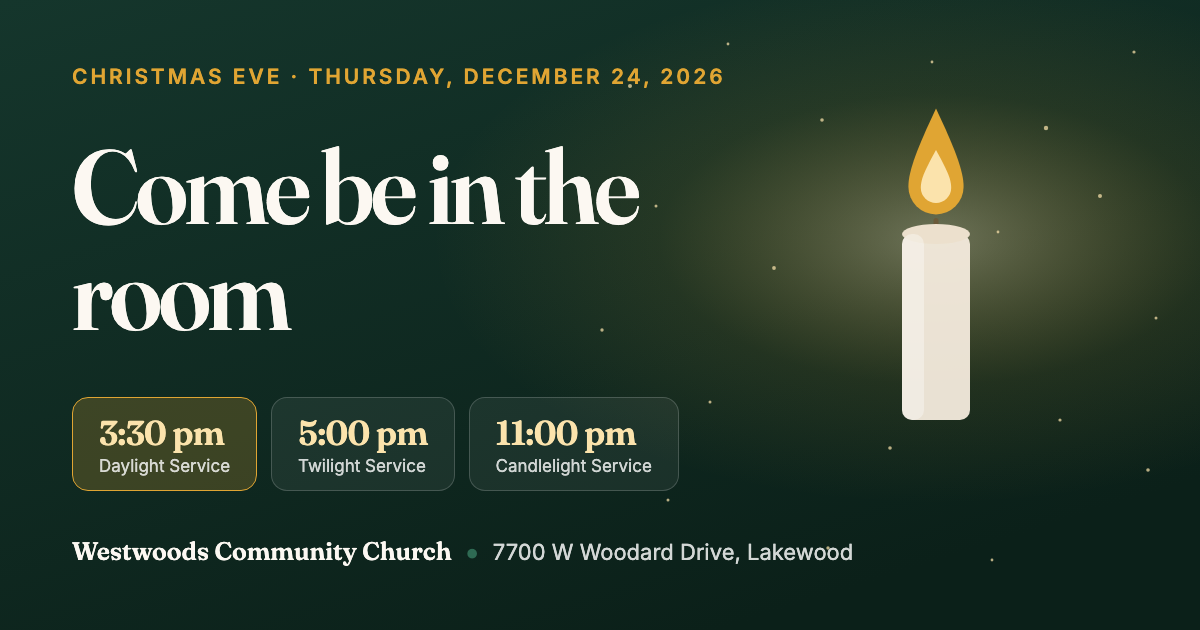
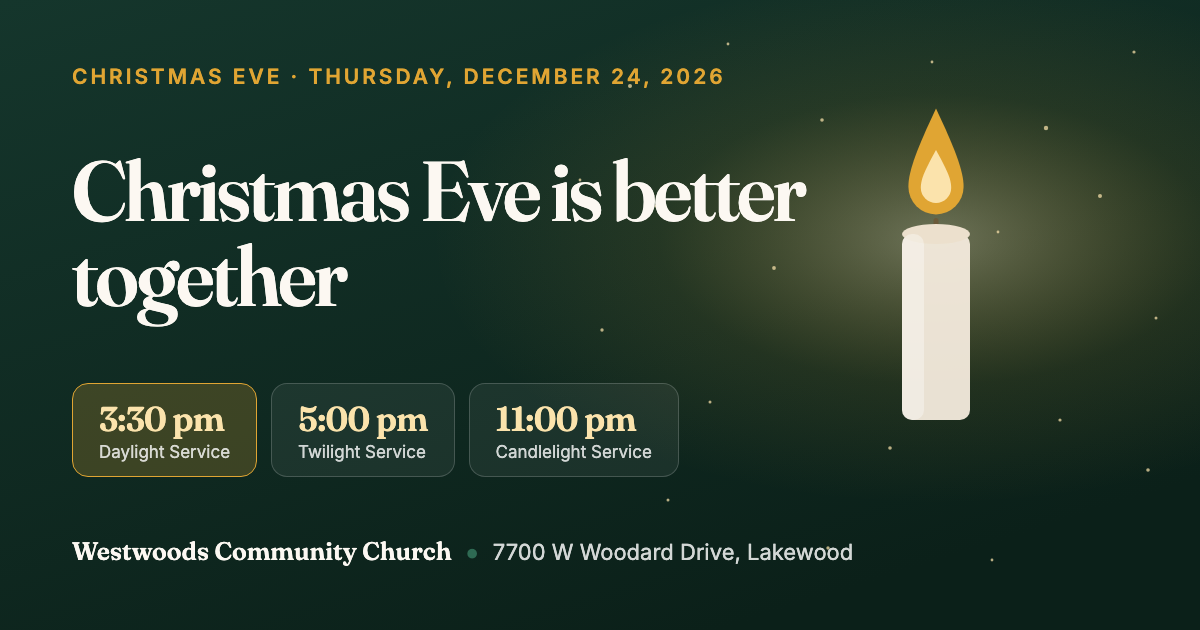
fixes and updates

diff --git a/src/lib/components/InviteTool.svelte b/src/lib/components/InviteTool.svelte
@@ -46,6 +46,15 @@
 		}))
 	];
 
+	async function copyForInstagram() {
+		try {
+			await navigator.clipboard.writeText(messages.copy);
+			status = 'Invitation copied — paste it into a story, a post or a DM.';
+		} catch {
+			status = `Couldn't copy automatically — the link is ${linkUrl}`;
+		}
+	}
+
 	async function copy(kind: 'invite' | 'link') {
 		const url = linkUrl;
 		try {
@@ -251,12 +260,38 @@
 						</svg>
 						X
 					</a>
+
+					<a
+						class="btn btn-outline"
+						href="https://www.instagram.com/"
+						target="_blank"
+						rel="noopener noreferrer"
+						onclick={copyForInstagram}
+					>
+						<svg
+							width="18"
+							height="18"
+							viewBox="0 0 24 24"
+							fill="none"
+							stroke="currentColor"
+							stroke-width="1.6"
+							stroke-linecap="round"
+							stroke-linejoin="round"
+							aria-hidden="true"
+						>
+							<rect x="3.5" y="3.5" width="17" height="17" rx="5" />
+							<circle cx="12" cy="12" r="4" />
+							<circle cx="17.2" cy="6.8" r="1.1" fill="currentColor" stroke="none" />
+						</svg>
+						Instagram
+					</a>
 				</div>
 
 				<p class="fine">
 					<strong>Copy invite</strong> gives you the message and the link together.
 					<strong>Copy link only</strong> gives you just the link, if you would rather write your
-					own — or select it above and copy it by hand.
+					own — or select it above and copy it by hand. Instagram has no share link, so that button
+					copies your invitation and opens Instagram for you to paste it in.
 					{#if service}
 						Either way it opens the page with the <strong>{service.time}</strong> service highlighted,
 						so they land on exactly the one you meant.

diff --git a/src/lib/components/Hero.svelte b/src/lib/components/Hero.svelte
@@ -34,8 +34,8 @@
 			<p class="eyebrow">{EVENT_DATE.weekday} &middot; {EVENT_DATE.long}, 2026</p>
 
 			<h1>
-				Come be<br />
-				<span class="underlined">in the room</span>
+				Christmas Eve is<br />
+				<span class="underlined">better together</span>
 			</h1>
 
 			<p class="tagline">Three services. One story. Everyone welcome.</p>
@@ -154,6 +154,12 @@
 
 	h1 {
 		margin: 0;
+		/* Sized so each line holds together at every width rather than orphaning a word. */
+		font-size: clamp(2.35rem, 5.6vw, 4.25rem);
+		/* Creates the stacking context the underline sits inside; without it the
+		   rule's negative z-index would fall behind the hero background. */
+		position: relative;
+		z-index: 0;
 	}
 
 	.underlined {
@@ -171,6 +177,8 @@
 		border-radius: 999px;
 		background: var(--berry);
 		opacity: 0.85;
+		/* behind the glyphs, so descenders cross over the rule */
+		z-index: -1;
 	}
 
 	.tagline {
@@ -295,7 +303,7 @@
 
 	@media (min-width: 60rem) {
 		.inner {
-			grid-template-columns: 1.05fr 0.95fr;
+			grid-template-columns: 1.2fr 0.8fr;
 		}
 	}
 </style>

diff --git a/src/routes/+layout.svelte b/src/routes/+layout.svelte
@@ -1,13 +1,15 @@
 <script lang="ts">
 	import '#lib/styles/app.css';
-	import favicon from '#lib/assets/favicon.svg';
 	import type { LayoutProps } from './$types';
 
 	let { children }: LayoutProps = $props();
 </script>
 
 <svelte:head>
-	<link rel="icon" href={favicon} />
+	<link rel="icon" href="/favicon.svg" type="image/svg+xml" />
+	<link rel="icon" href="/favicon-96.png" sizes="96x96" type="image/png" />
+	<link rel="apple-touch-icon" href="/apple-touch-icon.png" />
+	<link rel="mask-icon" href="/favicon.svg" color="#0b2019" />
 </svelte:head>
 
 {@render children()}

diff --git a/README.md b/README.md
@@ -76,6 +76,20 @@ cannot drift from the site. It needs Google Chrome at the standard macOS path an
 for native TypeScript imports — it will not run in CI as written, so regenerate locally and commit
 the PNGs.
 
+## Icons
+
+The favicon is the same candle used in the header and on the share cards. The SVG is generated
+rather than hand-kept, so the mark stays in one place:
+
+```bash
+pnpm icons
+```
+
+[`scripts/generate-icons.mjs`](scripts/generate-icons.mjs) writes `favicon.svg`, `favicon-96.png`
+for browsers that ignore SVG icons, and a square-cornered `apple-touch-icon.png` at 180×180, since
+iOS applies its own mask and would render rounded corners as black. Edit the mark in that script,
+not in `static/`. It needs Chrome and `sips`.
+
 ## Development
 
 ```bash
